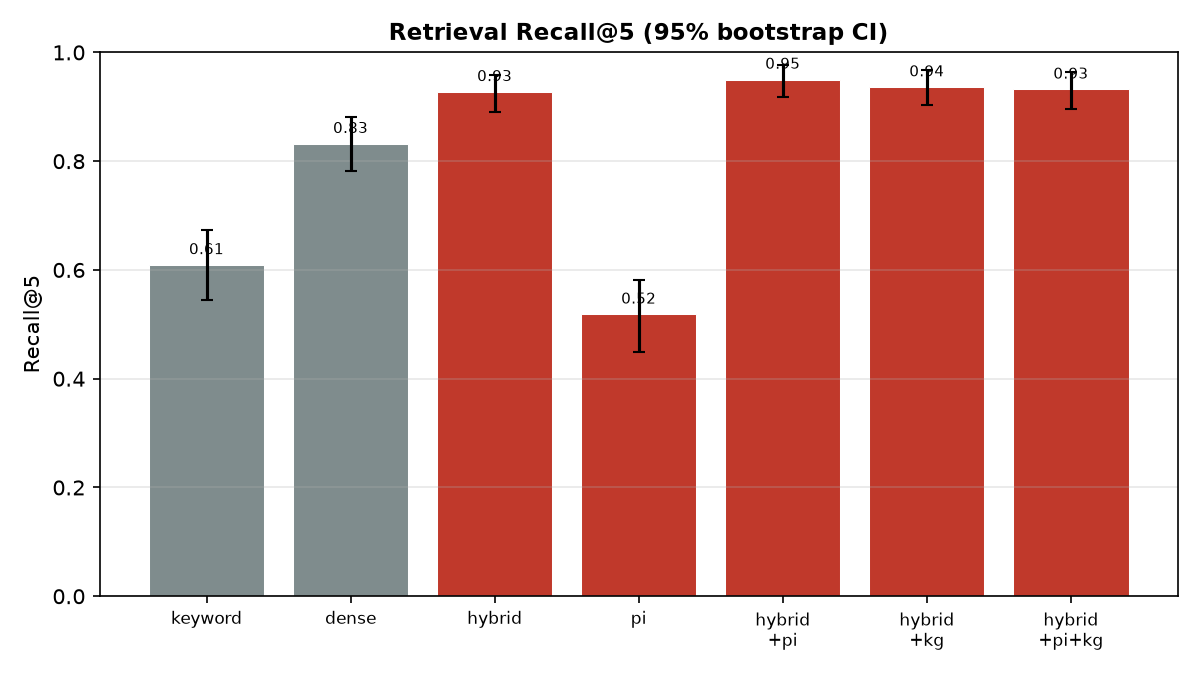
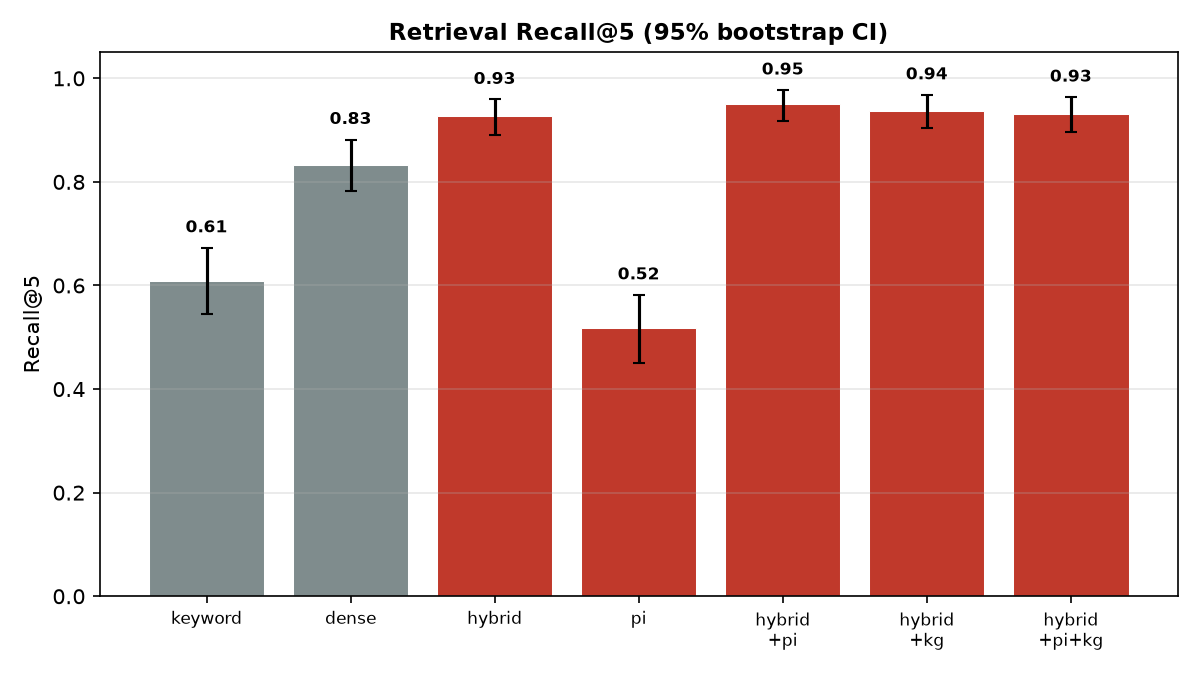
plots: place bar value labels above the CI whisker (readability fix)
Value labels were drawn at v+0.02, colliding with the upper error-bar cap so the
middle digit was struck through (e.g. 0.61 read as "0.b1"). Now placed above the
upper whisker, bold, with ylim raised to 1.05 for headroom. Regenerated figures.

diff --git a/analysis/plots.py b/analysis/plots.py
@@ -76,9 +76,13 @@ def bars(ax, arms, values, colors, ylabel, title, yerr=None):
     ax.set_xticks(list(x))
     ax.set_xticklabels([LABEL[a] for a in arms], fontsize=8)
     ax.set_ylabel(ylabel); ax.set_title(title, fontsize=11, fontweight="bold")
-    ax.set_ylim(0, 1); ax.grid(axis="y", alpha=0.3)
+    ax.set_ylim(0, 1.05); ax.grid(axis="y", alpha=0.3)
     for i, v in enumerate(values):
-        ax.text(i, v + 0.02, f"{v:.2f}", ha="center", fontsize=7)
+        # place the value label ABOVE the upper CI whisker so the error bar never
+        # strikes through the digits (previously v+0.02 collided with the cap)
+        hi = yerr[1][i] if yerr else 0
+        ax.text(i, min(v + hi + 0.03, 1.02), f"{v:.2f}", ha="center", fontsize=8,
+                fontweight="bold")
 
 
 def main():
